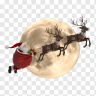
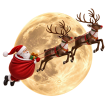
Use transparent artwork on the Christmas countdown

diff --git a/index.html b/index.html
@@ -2,7 +2,7 @@
 <html lang="en"><head><meta charset="utf-8"><meta name="viewport" content="width=device-width,initial-scale=1,maximum-scale=1,user-scalable=no,viewport-fit=cover"><meta name="theme-color" content="#123e42"><meta name="apple-mobile-web-app-capable" content="yes"><meta name="apple-mobile-web-app-status-bar-style" content="default"><link rel="manifest" href="manifest.webmanifest"><link rel="icon" href="assets/favicon.png?v=10" type="image/png"><link rel="apple-touch-icon" href="assets/icon-192.png?v=10"><link rel="stylesheet" href="app.css?v=20"><link rel="stylesheet" href="workspace.css?v=14"><link rel="stylesheet" href="loop.css?v=10"><link rel="stylesheet" href="staff.css?v=25"><link rel="stylesheet" href="bobby.css?v=32"><title>Esquiliano · Attendance</title></head>
 <body class="clock-screen"><div class="app"><aside><a class="brand" href="./"><img src="assets/favicon.png?v=10" alt=""><span>ESQUILIANO<small>ATTENDANCE</small></span></a><nav id="desktopNav" aria-label="Main navigation"></nav><div class="aside-foot"><span class="connection" id="connection">Connecting</span><button class="text-button" data-action="admin-login">Administrator</button></div></aside>
 <main><header><div><p class="eyebrow" id="dayLabel">STAFF PORTAL</p><h1 id="pageTitle">Clock</h1></div><div class="header-actions"><span id="previewBadge" class="badge hidden">Preview</span><button class="icon-button" id="notificationBell" data-action="toggle-inbox" aria-label="Notifications" aria-expanded="false"><svg viewBox="0 0 24 24"><path d="M18 8a6 6 0 0 0-12 0c0 7-3 7-3 9h18c0-2-3-2-3-9M10 21h4"/></svg><i id="unreadDot" class="dot hidden"></i></button><button class="avatar" id="headerAvatar" data-action="account-menu" aria-label="Open account menu" aria-haspopup="dialog">E</button></div></header><div id="banner" class="banner hidden" role="status"></div>
-<section id="clockView" class="view"><div class="home-intro"><div class="portal-signature"><img src="assets/favicon.png?v=10" width="30" height="30" alt=""><div><strong>Esquiliano</strong><span>Staff Portal</span></div></div><p id="homeGreeting" class="home-greeting hidden"></p></div><article class="panel clock-panel simple-clock"><div class="clock-card-heading"><span id="homeOffice">Main office</span><span class="office-time-label">Office time</span></div><div class="clock-face"><time id="clockTime">—</time><p id="clockDate"></p><div class="office-progress"><progress id="officeProgress" max="540" value="0" aria-label="Scheduled workday progress"></progress><div class="office-progress-times"><span>8 AM</span><span>5 PM</span></div></div><div id="christmasCountdown" class="clock-season hidden"><img src="assets/christmas-clock.png" width="36" height="36" alt=""><span id="christmasLabel"></span></div></div><span id="attendanceStatus" class="status">Signed out</span><div class="clock-slides"><div class="slide-control" data-slide="IN"><span class="slide-caption">Slide to clock in</span><span class="slide-thumb" aria-hidden="true">→</span><input id="slideIn" type="range" min="0" max="100" value="0" aria-label="Slide to clock in" aria-valuetext="Slide right to confirm clock in"></div><div class="slide-control slide-out" data-slide="OUT"><span class="slide-caption">Slide to clock out</span><span class="slide-thumb" aria-hidden="true">→</span><input id="slideOut" type="range" min="0" max="100" value="0" aria-label="Slide to clock out" aria-valuetext="Slide right to confirm clock out"></div></div><label id="lateField" class="hidden">Late arrival note<textarea id="lateNote" rows="2" maxlength="1000" placeholder="Reason for arriving late"></textarea></label><p id="clockFeedback" class="clock-feedback" role="status"></p><span id="locationStatus" class="sr-only"></span><p id="lunchStatus" class="muted hidden" role="status">Lunch · Hours paused until 1 p.m.</p><div id="clockToday" class="clock-today hidden"><div><span>Clock in</span><strong id="todayClockIn">—</strong></div><div><span>Clock out</span><strong id="todayClockOut">—</strong></div></div><div class="home-shift"><span>Today’s shift</span><strong id="homeShift">8:00 AM — 4:00 PM</strong></div></article><button id="homeAnnouncement" class="home-announcement hidden" data-view="inbox"><span class="announcement-kicker">Office update</span><strong id="homeAnnouncementTitle"></strong><span id="homeAnnouncementBody"></span><span class="announcement-arrow" aria-hidden="true">↗</span></button></section>
+<section id="clockView" class="view"><div class="home-intro"><div class="portal-signature"><img src="assets/favicon.png?v=10" width="30" height="30" alt=""><div><strong>Esquiliano</strong><span>Staff Portal</span></div></div><p id="homeGreeting" class="home-greeting hidden"></p></div><article class="panel clock-panel simple-clock"><div class="clock-card-heading"><span id="homeOffice">Main office</span><span class="office-time-label">Office time</span></div><div class="clock-face"><time id="clockTime">—</time><p id="clockDate"></p><div class="office-progress"><progress id="officeProgress" max="540" value="0" aria-label="Scheduled workday progress"></progress><div class="office-progress-times"><span>8 AM</span><span>5 PM</span></div></div><div id="christmasCountdown" class="clock-season hidden"><img src="assets/christmas-clock.png?v=2" width="36" height="36" alt=""><span id="christmasLabel"></span></div></div><span id="attendanceStatus" class="status">Signed out</span><div class="clock-slides"><div class="slide-control" data-slide="IN"><span class="slide-caption">Slide to clock in</span><span class="slide-thumb" aria-hidden="true">→</span><input id="slideIn" type="range" min="0" max="100" value="0" aria-label="Slide to clock in" aria-valuetext="Slide right to confirm clock in"></div><div class="slide-control slide-out" data-slide="OUT"><span class="slide-caption">Slide to clock out</span><span class="slide-thumb" aria-hidden="true">→</span><input id="slideOut" type="range" min="0" max="100" value="0" aria-label="Slide to clock out" aria-valuetext="Slide right to confirm clock out"></div></div><label id="lateField" class="hidden">Late arrival note<textarea id="lateNote" rows="2" maxlength="1000" placeholder="Reason for arriving late"></textarea></label><p id="clockFeedback" class="clock-feedback" role="status"></p><span id="locationStatus" class="sr-only"></span><p id="lunchStatus" class="muted hidden" role="status">Lunch · Hours paused until 1 p.m.</p><div id="clockToday" class="clock-today hidden"><div><span>Clock in</span><strong id="todayClockIn">—</strong></div><div><span>Clock out</span><strong id="todayClockOut">—</strong></div></div><div class="home-shift"><span>Today’s shift</span><strong id="homeShift">8:00 AM — 4:00 PM</strong></div></article><button id="homeAnnouncement" class="home-announcement hidden" data-view="inbox"><span class="announcement-kicker">Office update</span><strong id="homeAnnouncementTitle"></strong><span id="homeAnnouncementBody"></span><span class="announcement-arrow" aria-hidden="true">↗</span></button></section>
 <section id="workView" class="view hidden"><div class="ws-top"><div class="ws-tabs" role="tablist" aria-label="Workspace"><button data-ws-tab="clients" class="selected" role="tab" aria-selected="true">Clients</button><button data-ws-tab="team" role="tab" aria-selected="false">Directory</button></div></div>
 <div id="wsClients"><div id="wsClientIndex"><article class="panel"><div class="section-title"><div><h2>Client register</h2><p id="wsSummary" class="ws-summary"></p></div><button id="wsNewClient" class="primary">New client</button></div><div class="ws-filters"><input id="wsSearch" type="search" placeholder="Search clients" aria-label="Search clients"><select id="wsFilter" aria-label="Client status"><option value="">All statuses</option><option>Draft</option><option>Active</option></select></div><div id="wsClientList"></div></article></div>
 <div id="wsClientDetail" class="hidden"><article class="panel"><div class="section-title"><div><h2 id="wsDetailTitle"></h2><div id="wsDetailStatus"></div></div><div class="button-row"><button id="wsBack" class="secondary">Back</button><button id="wsEditClient" class="primary">Edit client</button></div></div><div id="wsDetail"></div></article><article class="panel"><h2>Client notes</h2><div id="wsNotes"></div><form id="wsNoteForm"><label>Add a note<textarea id="wsNoteText" rows="2" required maxlength="2000" placeholder="Follow-up or internal note"></textarea></label><button class="primary" data-write type="submit">Add note</button></form></article><article class="panel"><details><summary>Revision history</summary><div id="wsHistory"></div></details></article></div></div>

diff --git a/sw.js b/sw.js
@@ -1,5 +1,5 @@
-const CACHE='esquiliano-shell-v50';
-const SHELL=[...new Set([...Array.from({length:31},(_,i)=>'./assets/stickers/'+i+'.webp'),'./','./index.html','./assets/christmas-clock.png','./app.css?v=20','./app.js?v=34','./workspace.js?v=18','./workspace.css?v=14','./attendance-state.js?v=15','./bobby.css?v=32','./bobby-facts.js?v=33','./bobby-commands.js?v=31','./bobby.js?v=32','./loop-viewport.js?v=1','./loop.js?v=15','./loop.css?v=10','./departments.js?v=1','./config.js','./work-hours.js?v=22','./timesheet-export.js?v=27','./vendor/exceljs.min.js','./assets/report-header.png','./staff.js?v=26','./staff-week.js?v=22','./staff.css?v=25','./assets/favicon.png?v=10','./manifest.webmanifest','./vendor/supabase.js','./vendor/jsqr.js','./vendor/qrcode.js','./assets/icon-192.png?v=10','./assets/icon-512.png?v=10'])];
+const CACHE='esquiliano-shell-v51';
+const SHELL=[...new Set([...Array.from({length:31},(_,i)=>'./assets/stickers/'+i+'.webp'),'./','./index.html','./assets/christmas-clock.png?v=2','./app.css?v=20','./app.js?v=34','./workspace.js?v=18','./workspace.css?v=14','./attendance-state.js?v=15','./bobby.css?v=32','./bobby-facts.js?v=33','./bobby-commands.js?v=31','./bobby.js?v=32','./loop-viewport.js?v=1','./loop.js?v=15','./loop.css?v=10','./departments.js?v=1','./config.js','./work-hours.js?v=22','./timesheet-export.js?v=27','./vendor/exceljs.min.js','./assets/report-header.png','./staff.js?v=26','./staff-week.js?v=22','./staff.css?v=25','./assets/favicon.png?v=10','./manifest.webmanifest','./vendor/supabase.js','./vendor/jsqr.js','./vendor/qrcode.js','./assets/icon-192.png?v=10','./assets/icon-512.png?v=10'])];
 self.addEventListener('install',e=>{
  const precache=caches.open(CACHE).then(c=>Promise.allSettled(SHELL.map(path=>c.add(path)))).catch(()=>{});
  let timer;e.waitUntil(Promise.race([precache,new Promise(resolve=>timer=setTimeout(resolve,8000))]).finally(()=>clearTimeout(timer)).then(()=>self.skipWaiting()));
